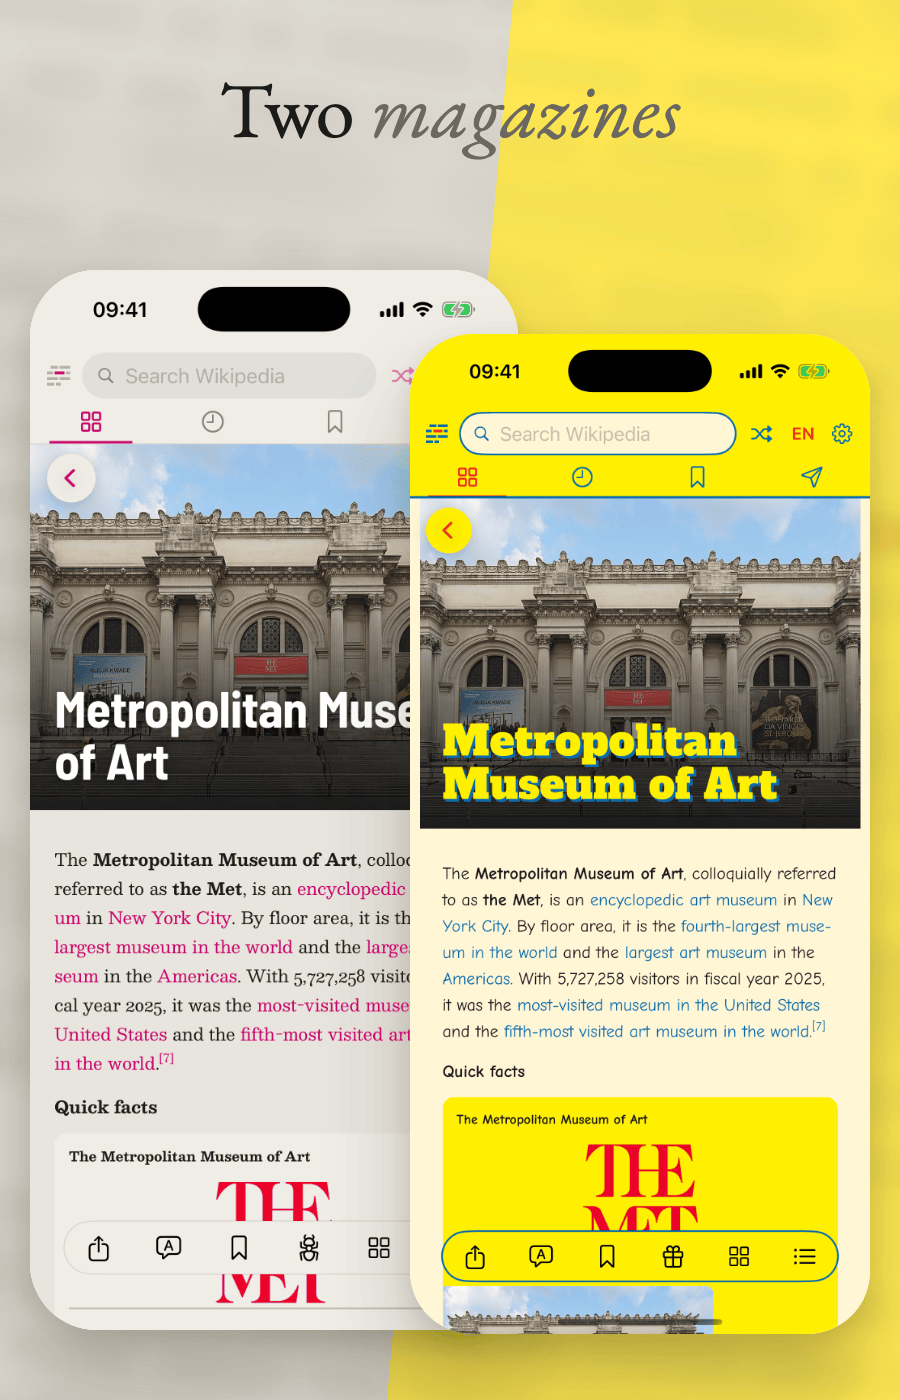
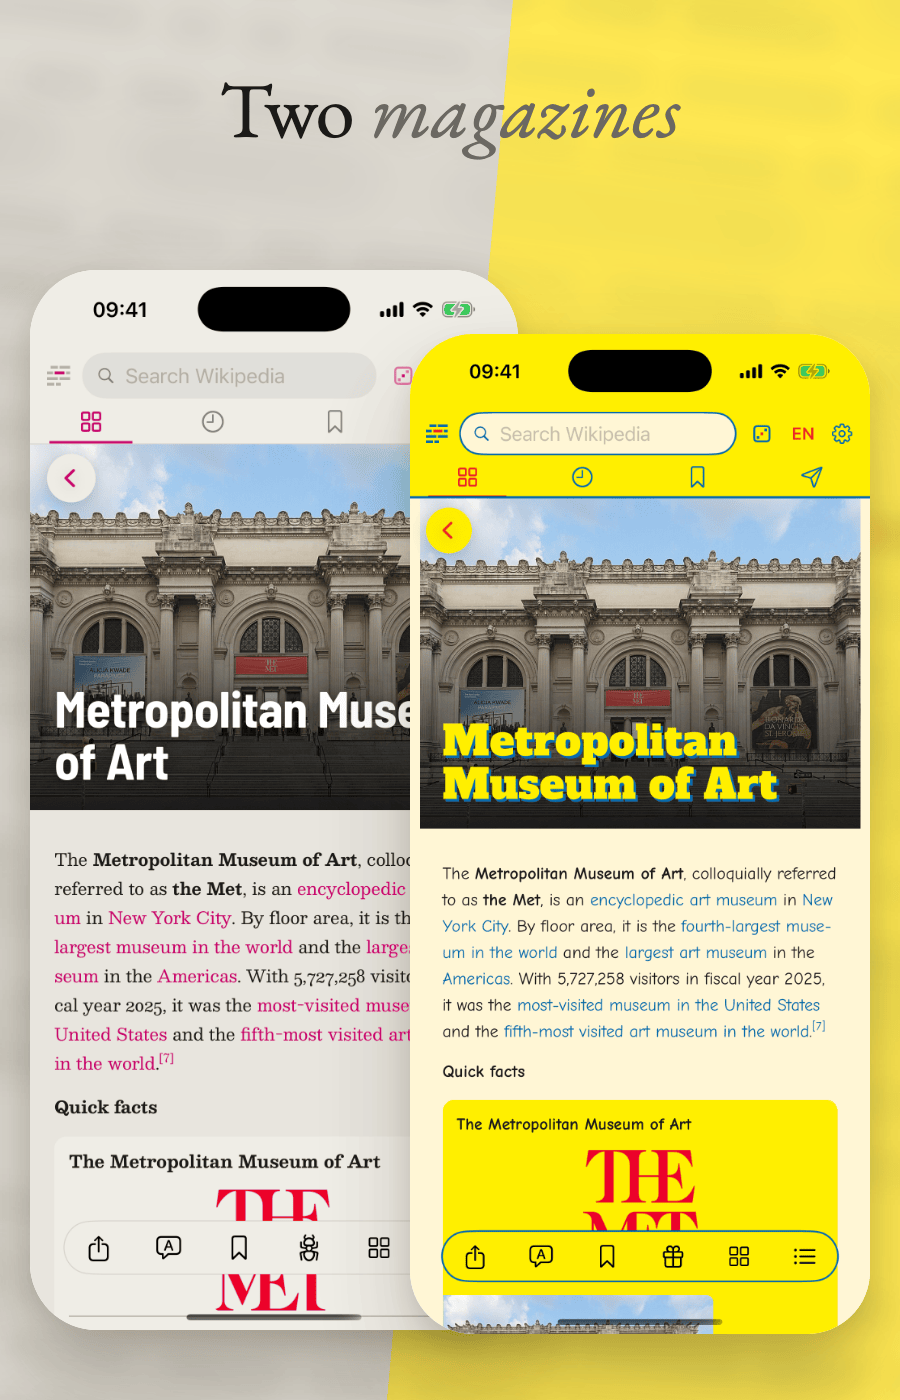
Film: end on the eigenwort repo; re-recorded, re-measured
The clips predated each theme's own type in tables and tabs. The
simulator now stops writing once the screen is still, so some clips
end before their scenes; Remotion holds the last frame.

diff --git a/Tools/film/src/timing.ts b/Tools/film/src/timing.ts
@@ -4,17 +4,17 @@
 export const FPS = 30;
 
 export const clips = {
-	today: {file: 'clips/today.mp4', start: 4.3, tap: 8.7},
-	nearby: {file: 'clips/nearby.mp4', start: 3.0, tap: 6.9},
-	read: {file: 'clips/read.mp4', start: 1.9, scrollFrom: 3.55, scrollTo: 7.45},
+	today: {file: 'clips/today.mp4', start: 5.0, tap: 8.85},
+	nearby: {file: 'clips/nearby.mp4', start: 2.6, tap: 6.45},
+	read: {file: 'clips/read.mp4', start: 1.9, scrollFrom: 3.6, scrollTo: 7.4},
 	themes: {
 		file: 'clips/themes.mp4',
-		start: 2.2,
+		start: 2.1,
 		switches: [
-			{theme: 'sepia', at: 4.0},
-			{theme: 'dark', at: 5.65},
-			{theme: 'debug', at: 7.4},
-			{theme: 'gimmick', at: 9.05},
+			{theme: 'sepia', at: 3.9},
+			{theme: 'dark', at: 5.55},
+			{theme: 'debug', at: 7.35},
+			{theme: 'gimmick', at: 8.95},
 		],
 	},
 } as const;

diff --git a/Tools/film/src/Film.tsx b/Tools/film/src/Film.tsx
@@ -154,7 +154,7 @@ const Themes: React.FC = () => {
 
 const End: React.FC = () => (
 	<AbsoluteFill style={{opacity: useFade(frames(scenes.end.length), 15)}}>
-		<Title extra="Free and open source · github.com/hendryque/folio" />
+		<Title extra="Free and open source · github.com/hendryque/eigenwort" />
 	</AbsoluteFill>
 );
 
